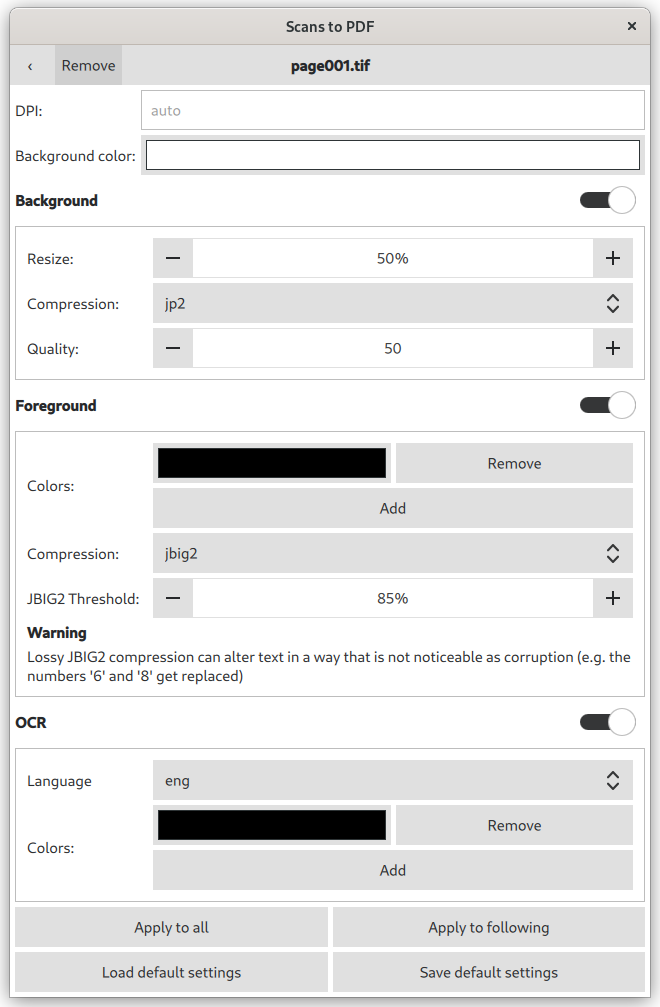
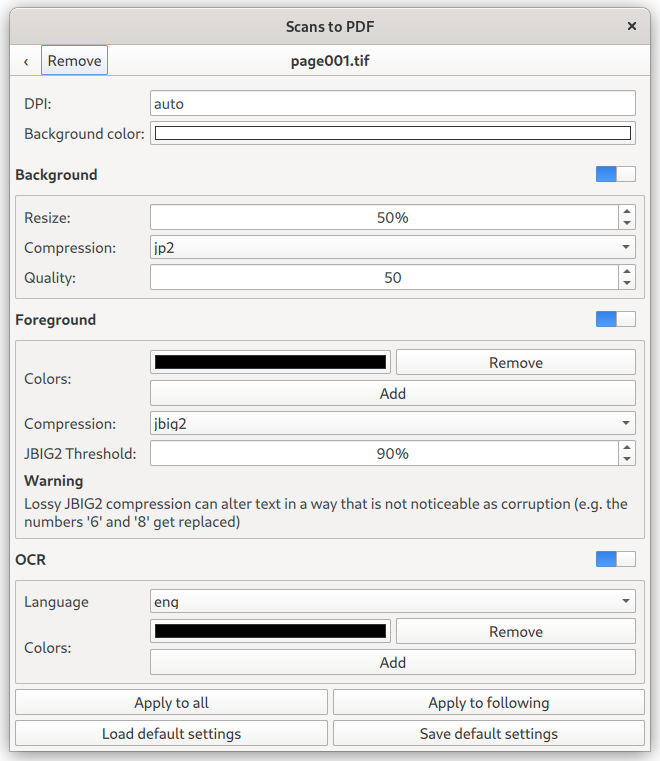
Switch to qt6

Changed region(s): [[0.0, 0.0, 1.0, 0.9974], [0.0303, 0.4836, 0.1212, 0.5138]]

diff --git a/djpdfgui/qml/detail.qml b/djpdfgui/qml/detail.qml
@@ -17,11 +17,12 @@
  * Copyright 2018 Unrud <unrud@outlook.com>
  */
 
-import QtQuick 2.9
-import QtQuick.Controls 2.2
-import QtQuick.Layouts 1.3
-import QtQuick.Dialogs 1.2
-import djpdf 1.0
+import QtQuick
+import QtQuick.Controls
+import QtQuick.Layouts
+import QtQuick.Dialogs
+import Qt.labs.platform as Labs
+import djpdf
 
 Page {
     id: sv
@@ -60,11 +61,10 @@ Page {
         }
     }
 
-    ColorDialog {
+    Labs.ColorDialog {
         property var fn: null
         id: colorDialog
         title: "Please choose a color"
-        modality: Qt.WindowModal
         onAccepted: fn()
     }
 
@@ -90,7 +90,7 @@ Page {
                             selectByMouse: true
                             placeholderText: "auto"
                             text: sv.p.dpi !== 0 ? sv.p.dpi : ""
-                            validator: RegExpValidator { regExp: /[0-9]*/ }
+                            validator: RegularExpressionValidator { regularExpression: /[0-9]*/ }
                             onEditingFinished: {
                                 if (text === "") {
                                     sv.p.dpi = 0
@@ -464,12 +464,11 @@ Page {
                     onClicked: sv.p.loadUserDefaults()
                 }
                 Button {
-                    MessageDialog {
+                    Labs.MessageDialog {
                         id: saveUserDefaultsDialog
                         title: "Overwrite?"
                         text: "Replace default settings?"
-                        icon: StandardIcon.Question
-                        standardButtons: StandardButton.Yes | StandardButton.No
+                        buttons: Labs.MessageDialog.Yes | Labs.MessageDialog.No
                         onAccepted: sv.p.saveUserDefaults()
                     }
                     Layout.fillWidth: true

diff --git a/djpdfgui/qml/overview.qml b/djpdfgui/qml/overview.qml
@@ -17,11 +17,12 @@
  * Copyright 2018 Unrud <unrud@outlook.com>
  */
 
-import QtQuick 2.9
-import QtQuick.Controls 2.2
-import QtQuick.Layouts 1.3
-import QtQuick.Dialogs 1.2
-import djpdf 1.0
+import QtCore
+import QtQuick
+import QtQuick.Controls
+import QtQuick.Layouts
+import QtQuick.Dialogs
+import djpdf
 
 Page {
     FileDialog {
@@ -31,19 +32,18 @@ Page {
             "Images (" + platformIntegration.imageFileExtensions.map(function(s) {return "*." + s}).join(" ") + ")",
             "All files (*)"
         ]
-        folder: shortcuts.home
-        selectMultiple: true
-        onAccepted: pagesModel.extend(openDialog.fileUrls)
+        fileMode: FileDialog.OpenFiles
+        currentFolder: StandardPaths.writableLocation(StandardPaths.HomeLocation)
+        onAccepted: pagesModel.extend(selectedFiles)
     }
 
     FileDialog {
         id: saveDialog
         title: "Save"
-        defaultSuffix: platformIntegration.pdfFileExtension
         nameFilters: [ "PDF (*." + platformIntegration.pdfFileExtension + ")" ]
-        folder: shortcuts.home
-        selectExisting: false
-        onAccepted: pagesModel.save(saveDialog.fileUrl)
+        fileMode: FileDialog.SaveFile
+        currentFolder: StandardPaths.writableLocation(StandardPaths.HomeLocation)
+        onAccepted: pagesModel.save(selectedFile)
     }
 
     Connections {

diff --git a/djpdfgui/qml/main.qml b/djpdfgui/qml/main.qml
@@ -17,8 +17,8 @@
  * Copyright 2018 Unrud <unrud@outlook.com>
  */
 
-import QtQuick 2.9
-import QtQuick.Controls 2.2
+import QtQuick
+import QtQuick.Controls
 
 ApplicationWindow {
     SystemPalette { id: paletteActive; colorGroup: SystemPalette.Active }

diff --git a/djpdfgui/scans2pdfgui.py b/djpdfgui/scans2pdfgui.py
@@ -25,13 +25,13 @@ import tempfile
 import traceback
 from argparse import ArgumentParser
 
-from PySide2 import QtQml
-from PySide2.QtGui import QIcon, QImage
-from PySide2.QtCore import (Property, QAbstractListModel, QModelIndex,
+from PySide6 import QtQml
+from PySide6.QtGui import QIcon, QImage
+from PySide6.QtCore import (Property, QAbstractListModel, QModelIndex,
                             QObject, QProcess, QUrl, Qt, Signal, Slot)
-from PySide2.QtQuick import QQuickImageProvider
-from PySide2.QtQml import QQmlApplicationEngine
-from PySide2.QtWidgets import QApplication
+from PySide6.QtQuick import QQuickImageProvider
+from PySide6.QtQml import QQmlApplicationEngine
+from PySide6.QtWidgets import QApplication
 
 from djpdf.scans2pdf import DEFAULT_SETTINGS, find_ocr_languages
 

diff --git a/setup.py b/setup.py
@@ -28,7 +28,7 @@ if enable_gui:
     package_data["djpdfgui"] = ["qml/main.qml", "qml/overview.qml",
                                 "qml/detail.qml"]
     console_scripts.append("scans2pdf-gui = djpdfgui.scans2pdfgui:main")
-    install_requires.append("pyside2")
+    install_requires.append("pyside6")
 
 setup(
     name="djpdf",
